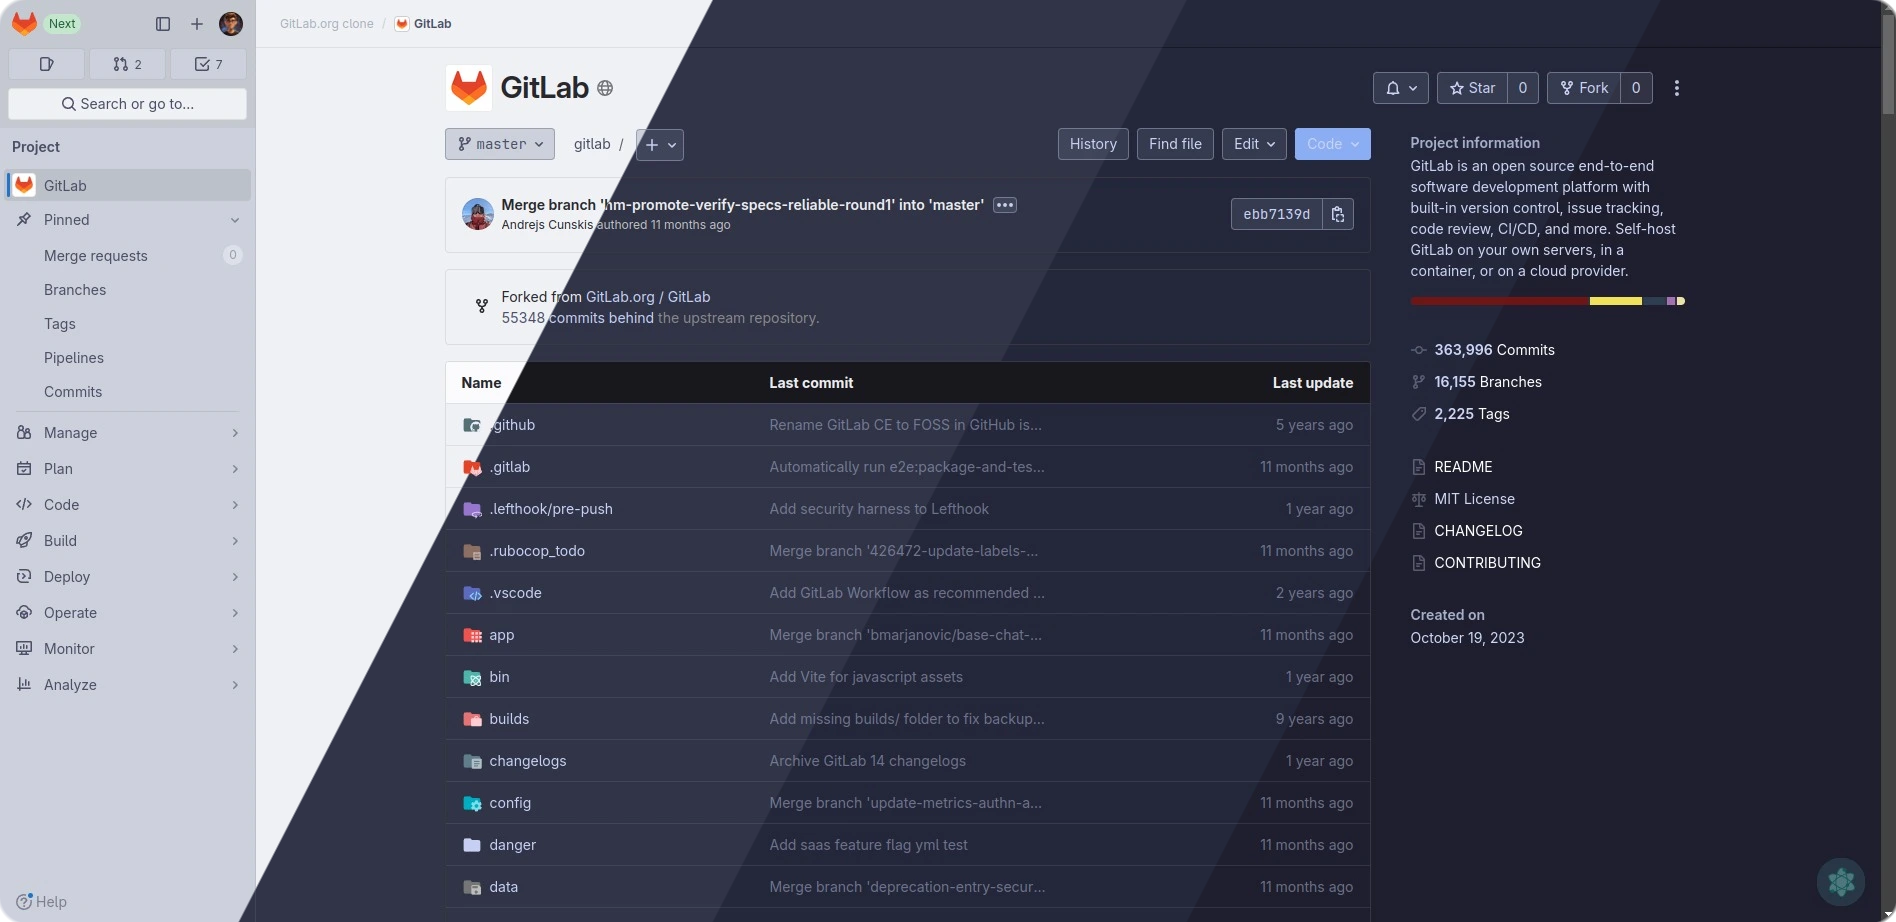
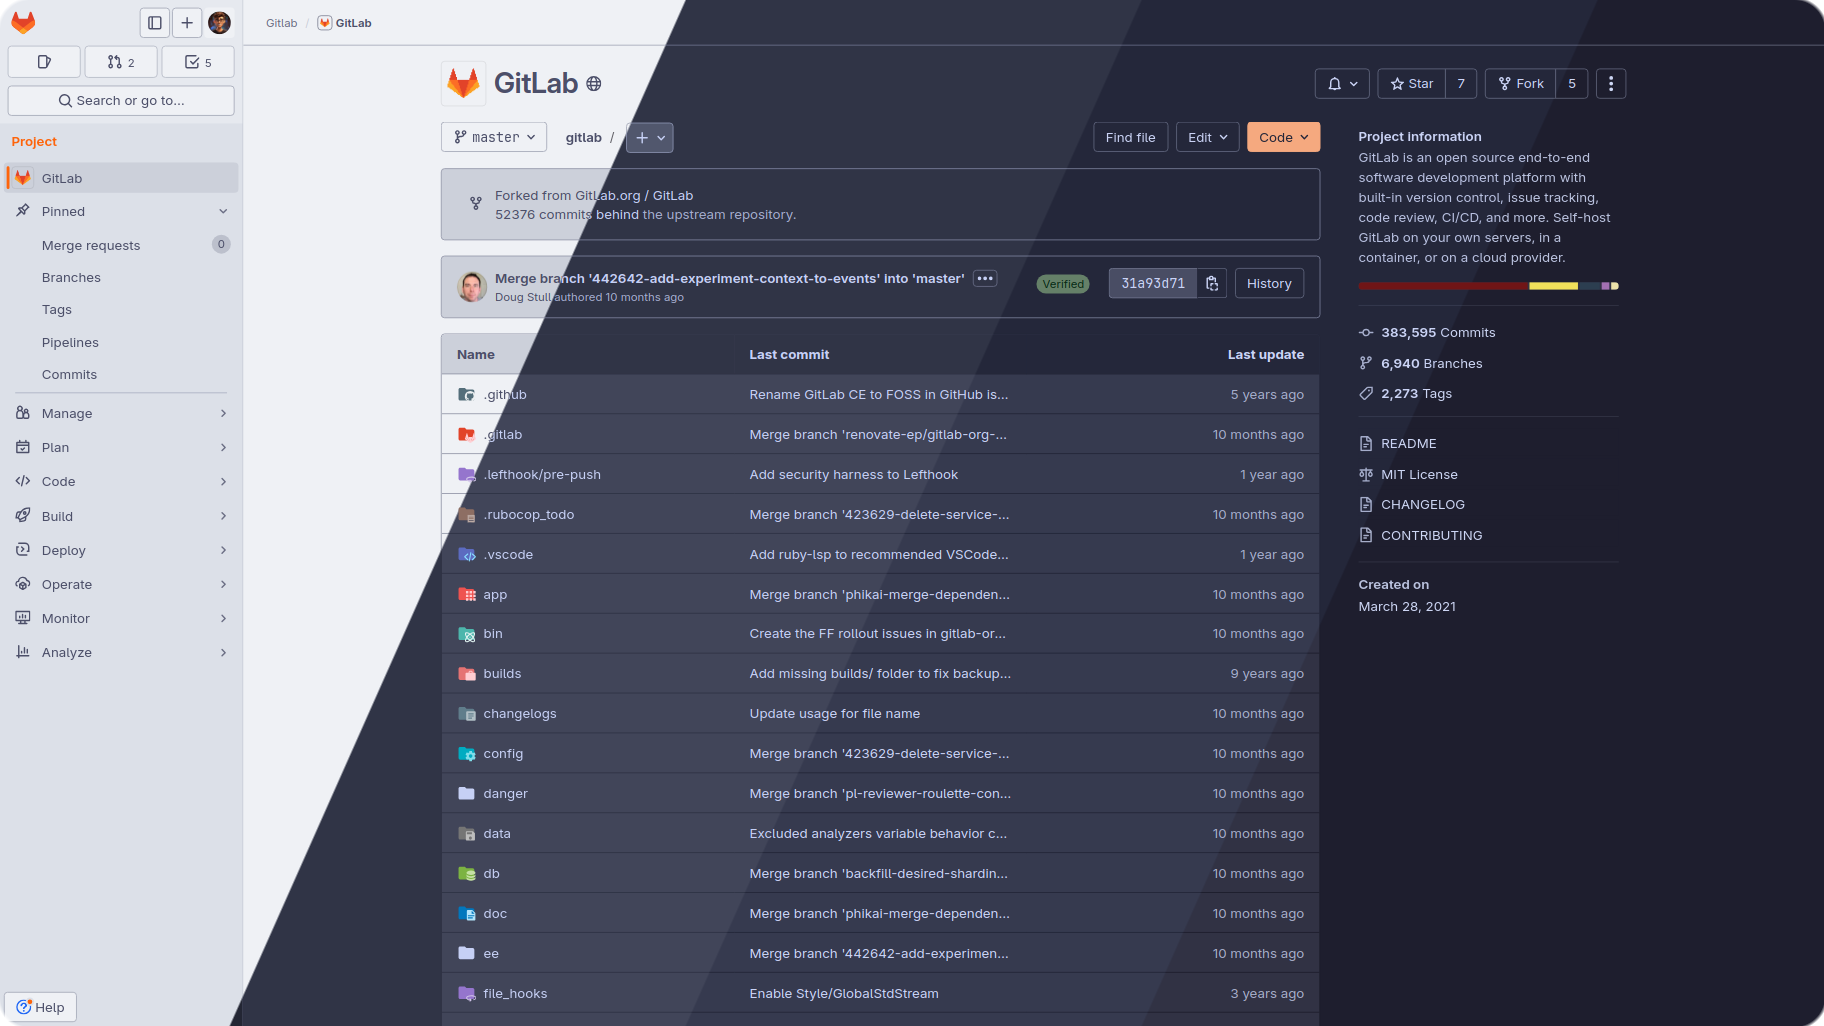
fixes kbd and badges with new catwalk

diff --git a/styles/gitlab/catppuccin.user.css b/styles/gitlab/catppuccin.user.css
@@ -145,6 +145,7 @@ domain("git.plugin-lab.com") {
     --gl-text-color-subtle: @subtext0;
     --gl-text-color-strong: @text;
     --gl-text-color-heading: @text;
+    --gl-icon-color-subtle: @subtext0;
 
     --gl-text-primary: @text;
     --gl-text-secondary: @overlay0;
@@ -273,7 +274,7 @@ domain("git.plugin-lab.com") {
     --gl-label-scoped-text-color: @text;
     --gl-label-dark-text-color: if(@lookup = latte, @crust, @text);
 
-    --gl-dropdown-option-background-color-unselected-hover: @base;
+    --gl-dropdown-option-background-color-unselected-hover: @surface0;
 
     --gl-datepicker-background-color: @base;
     --gl-datepicker-date-text-color-selected: @base;
@@ -317,6 +318,14 @@ domain("git.plugin-lab.com") {
       color: var(--gl-label-dark-text-color);
     }
 
+    .gl-label-text-light .gl-label-text {
+      color: @white;
+    }
+
+    .gl-modal .gl-new-dropdown button {
+      background-color: @gray1;
+    }
+
     .super-sidebar {
       --super-sidebar-bg: @crust;
       --super-sidebar-border-color: @surface0;
@@ -343,11 +352,9 @@ domain("git.plugin-lab.com") {
 
     aside.right-sidebar:not(.right-sidebar-merge-requests),
     .merge-request.closed,
-    .merge-request.merged {
+    .merge-request.merged,
+    .gl-label-scoped {
       background-color: @base;
-    }
-    .job-log {
-      background-color: @crust;
     }
 
     .form-control,
@@ -405,6 +412,11 @@ domain("git.plugin-lab.com") {
       color: @accent-color;
     }
 
+    kbd {
+      background-color: @base;
+      border-color: @subtext0;
+    }
+
     .dropdown-menu li > button:not(.disable-hover):hover,
     .dropdown-menu li .gl-button.btn-link:not(.disable-hover):hover,
     .filtered-search-token .name,
@@ -415,15 +427,6 @@ domain("git.plugin-lab.com") {
       color: @text;
     }
 
-    .modal-dialog input,
-    .modal-dialog input:hover,
-    .modal-dialog input:focus,
-    .modal-dialog textarea,
-    .modal-dialog textarea:hover,
-    .modal-dialog textarea:focus,
-    .modal-dialog .gl-button.gl-button.btn-default,
-    .modal-dialog .input-group .input-group-append,
-    .modal-dialog .input-group .input-group-prepend,
     .gl-datepicker-theme :not(.is-selected) > .pika-button:hover,
     .dropdown-menu .dropdown-item:hover,
     .gl-pagination .page-item.disabled .page-link,
@@ -434,9 +437,7 @@ domain("git.plugin-lab.com") {
     .file-title-flex-parent,
     .file-holder .file-title-flex-parent,
     .file-header-content .btn-default-tertiary,
-    .file-actions .btn-default-tertiary,
-    .gl-new-dropdown .gl-new-dropdown-panel,
-    .global-search-modal.gl-modal .modal-footer {
+    .file-actions .btn-default-tertiary {
       background-color: @surface0;
     }
 
@@ -460,7 +461,19 @@ domain("git.plugin-lab.com") {
     .form-control[readonly],
     .input-group .input-group-prepend,
     .input-group-append,
-    .content-wrapper {
+    .content-wrapper,
+    .gl-new-dropdown .gl-new-dropdown-panel,
+    .modal-dialog input,
+    .modal-dialog input:hover,
+    .modal-dialog input:focus,
+    .modal-dialog textarea,
+    .modal-dialog textarea:hover,
+    .modal-dialog textarea:focus,
+    .modal-dialog .gl-button.gl-button.btn-default,
+    .modal-dialog .input-group .input-group-append,
+    .modal-dialog .input-group .input-group-prepend,
+    .modal-content,
+    .global-search-modal.gl-modal .modal-footer {
       background-color: @base;
     }
 
@@ -509,7 +522,8 @@ domain("git.plugin-lab.com") {
       color: @subtext0 !important;
     }
 
-    .home-panel-title {
+    .home-panel-title,
+    .gl-label-text {
       color: @black;
     }
 
@@ -663,7 +677,8 @@ domain("git.plugin-lab.com") {
 
     .diff-line-num a,
     .line_holder .diff-line-num.new a,
-    .line_holder .diff-line-num.old a {
+    .line_holder .diff-line-num.old a,
+    .gl-label-text-light .gl-label-text {
       color: @text;
     }
 
@@ -765,23 +780,14 @@ domain("git.plugin-lab.com") {
     .c1,
     .cs,
     .cd,
-    .sd {
-      color: @subtext0;
-    }
-
+    .sd,
     .gp {
       color: @subtext0;
-      font-weight: 600;
-    }
-
-    .ge {
-      font-style: italic;
     }
 
     .gh,
     .gu {
       color: @sky;
-      font-weight: 600;
     }
 
     .k,
@@ -849,35 +855,46 @@ domain("git.plugin-lab.com") {
     }
     .ci-icon {
       &.ci-icon-variant-success {
-        background-color: @green;
-        border-color: @green;
+        background-color: if(@lookup = latte, lighten(@green, 35%), @green);
+        border-color: if(@lookup = latte, lighten(@green, 35%), @green);
 
         .ci-icon-gl-icon-wrapper {
-          color: @green;
-          background-color: darken(@green, 35%);
-          border-color: darken(@green, 35%);
+          color: if(@lookup = latte, lighten(@green, 35%), @green);
+          background-color: if(@lookup = latte, @green, darken(@green, 35%));
+          border-color: if(@lookup = latte, @green, darken(@green, 35%));
         }
       }
 
       &.ci-icon.ci-icon-variant-info {
-        background-color: @blue;
-        border-color: @blue;
+        background-color: if(@lookup = latte, lighten(@blue, 35%), @blue);
+        border-color: if(@lookup = latte, lighten(@blue, 35%), @blue);
 
         .ci-icon-gl-icon-wrapper {
-          color: @blue;
-          background-color: darken(@blue, 35%);
-          border-color: darken(@blue, 35%);
+          color: if(@lookup = latte, lighten(@blue, 35%), @blue);
+          background-color: if(@lookup = latte, @blue, darken(@blue, 35%));
+          border-color: if(@lookup = latte, @blue, darken(@blue, 35%));
         }
       }
 
       &.ci-icon.ci-icon-variant-warning {
-        background-color: @peach;
-        border-color: @peach;
+        background-color: if(@lookup = latte, lighten(@peach, 35%), @peach);
+        border-color: if(@lookup = latte, lighten(@peach, 35%), @peach);
 
         .ci-icon-gl-icon-wrapper {
-          color: @peach;
-          background-color: darken(@peach, 35%);
-          border-color: darken(@peach, 35%);
+          color: if(@lookup = latte, lighten(@peach, 35%), @peach);
+          background-color: if(@lookup = latte, @peach, darken(@peach, 35%));
+          border-color: if(@lookup = latte, @peach, darken(@peach, 35%));
+        }
+      }
+
+      &.ci-icon.ci-icon-variant-danger {
+        background-color: if(@lookup = latte, lighten(@red, 35%), @red);
+        border-color: if(@lookup = latte, lighten(@red, 35%), @red);
+
+        .ci-icon-gl-icon-wrapper {
+          color: if(@lookup = latte, lighten(@red, 35%), @red);
+          background-color: if(@lookup = latte, @red, darken(@red, 35%));
+          border-color: if(@lookup = latte, @red, darken(@red, 35%));
         }
       }
     }
@@ -922,6 +939,7 @@ domain("git.plugin-lab.com") {
         color: @overlay0;
       }
 
+      background-color: @crust;
       color: @text;
     }
   }
